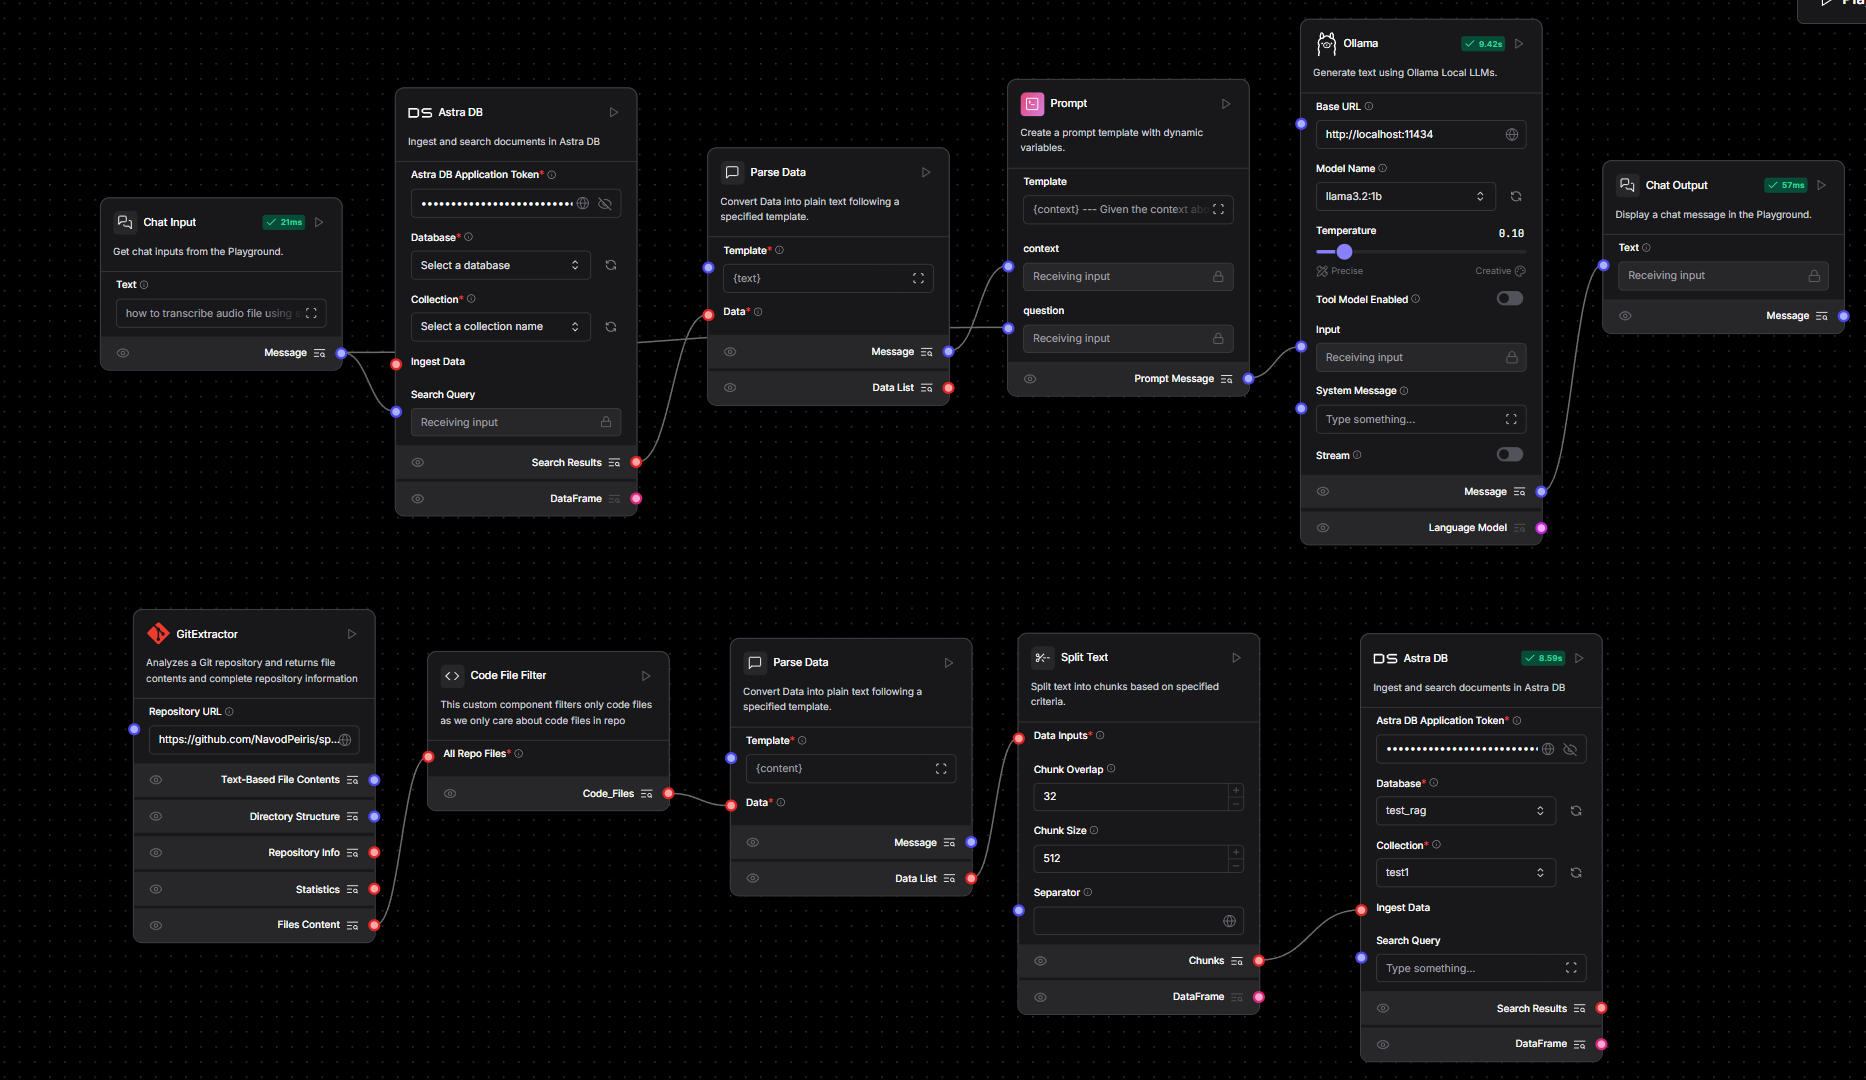
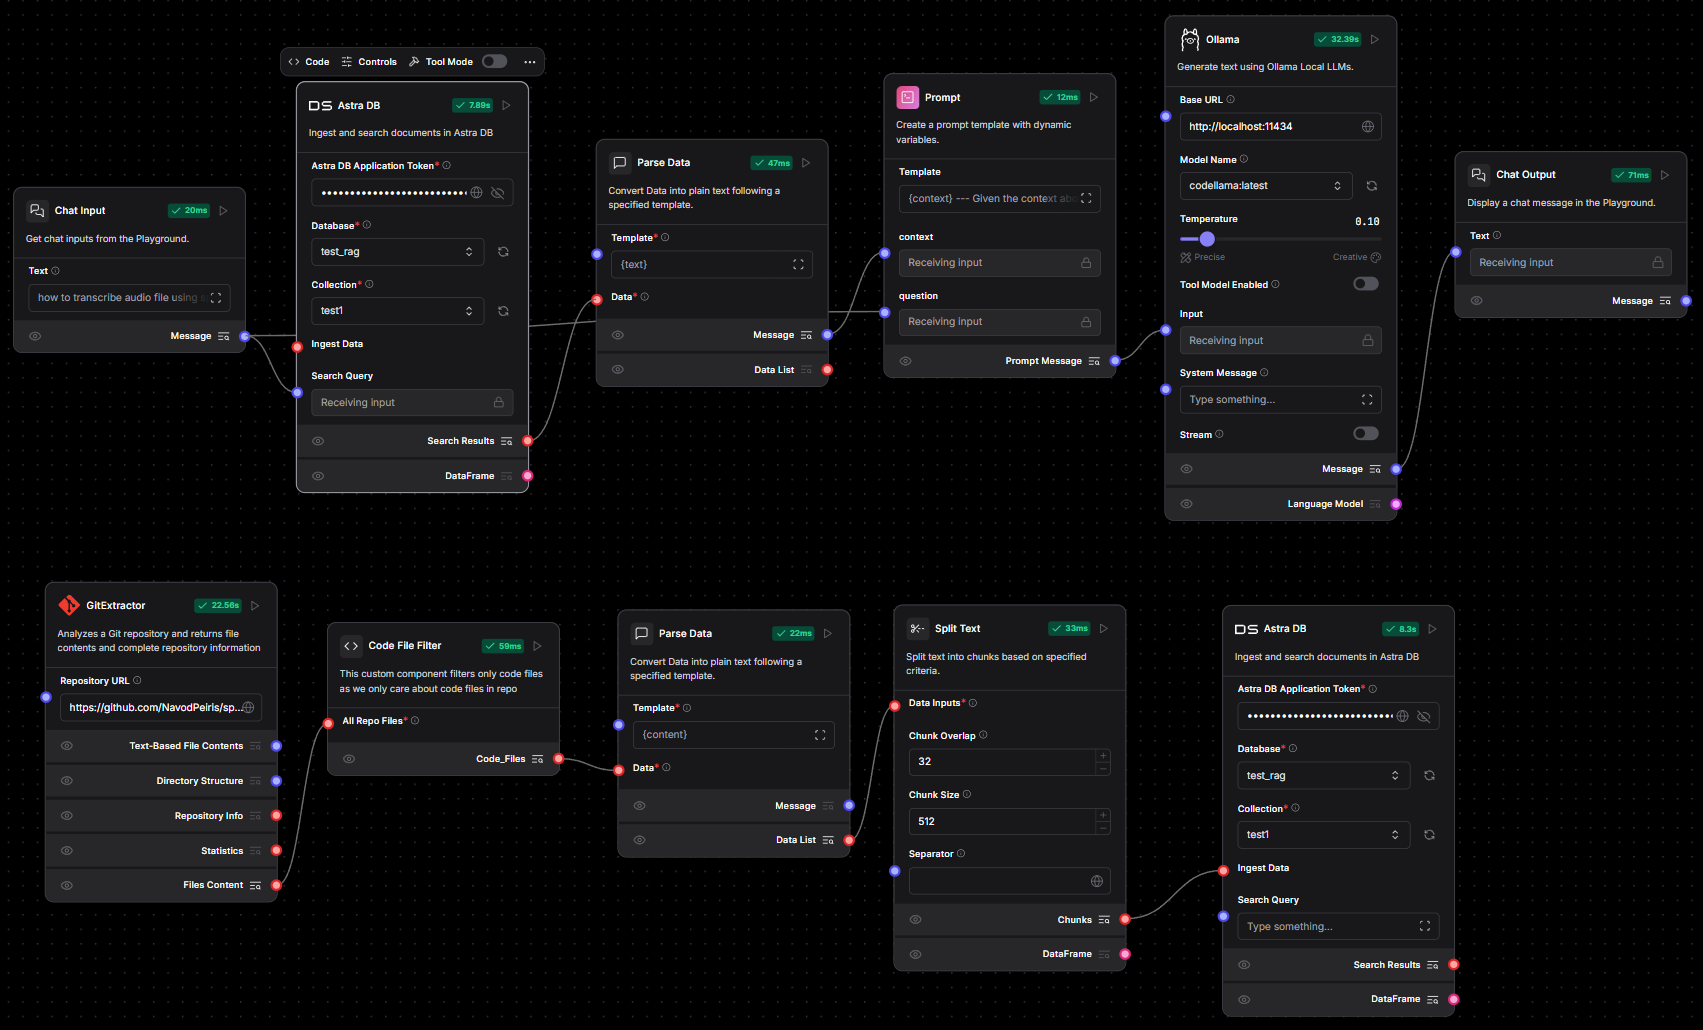
using codellama

Changed region(s): [[0.0, 0.0, 0.9959, 0.5282], [0.0, 0.5592, 0.8714, 0.9942], [0.9648, 0.0, 1.0, 0.0311]]

diff --git a/README.md b/README.md
@@ -2,8 +2,21 @@
 
 #### Requirements:
 
-- ollama with a LLM of your choice
+- ollama with a LLM of your choice (codellama was used in example)
 - Astra DB instance and collection
 - target github repo
+
+#### Steps:
+
+1. download ollama and run codellama model
+2. signup for Astra DB
+3. setup Astra DB vector database and collection with Nvidia Embeddings enabled
+4. setup Langflow and import JSON file of the flow
+5. add access tokens for Astra DB components
+6. run the flow!
+
+#### Limitations:
+
+hallucinations, incorrect retrieval cause incorrect outputs
 
 ![architecture](architecture.png)
